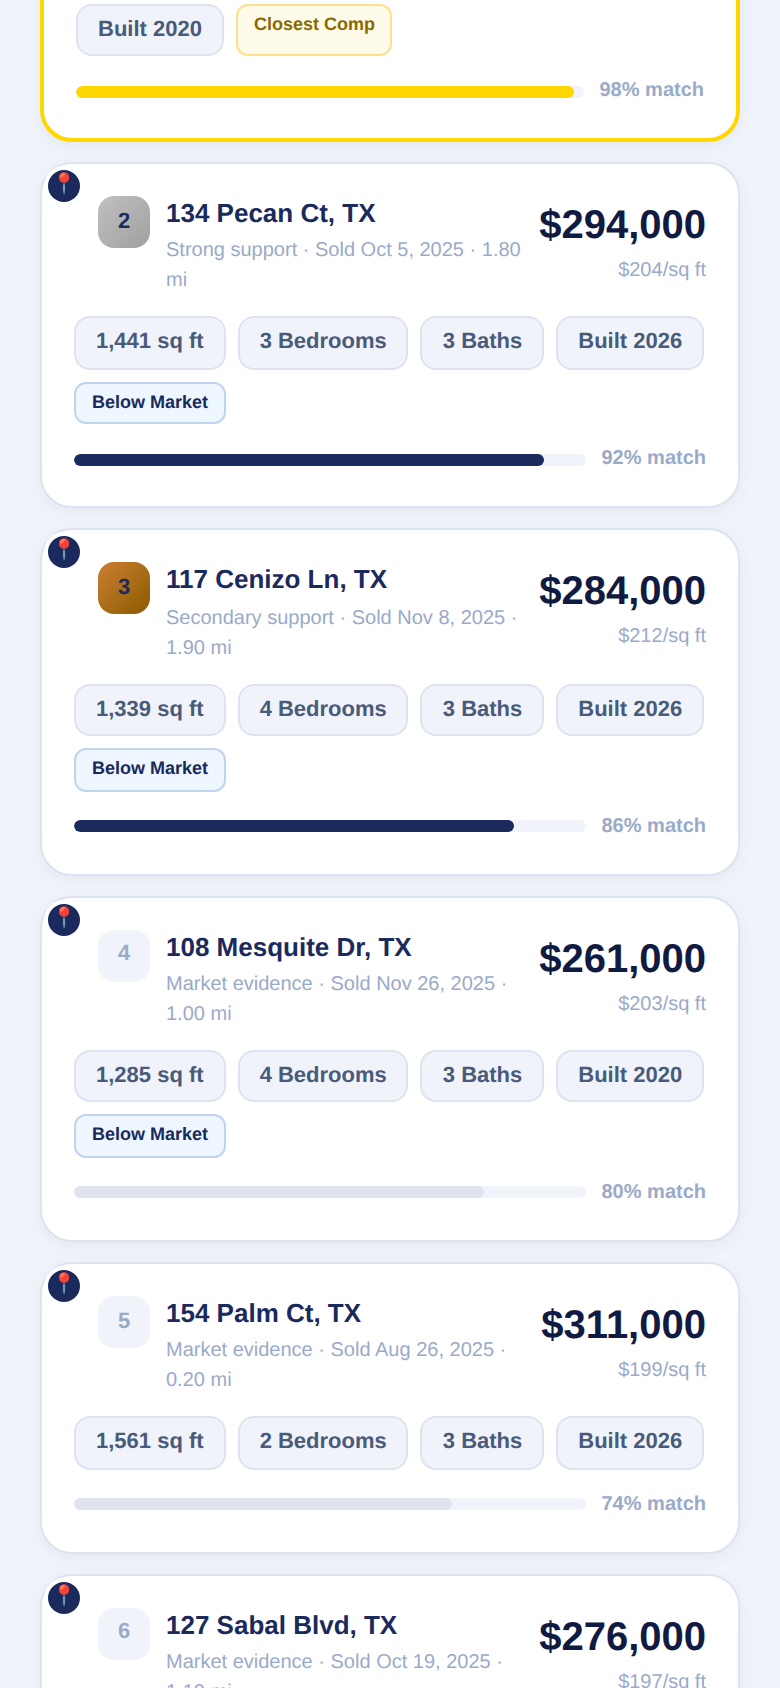
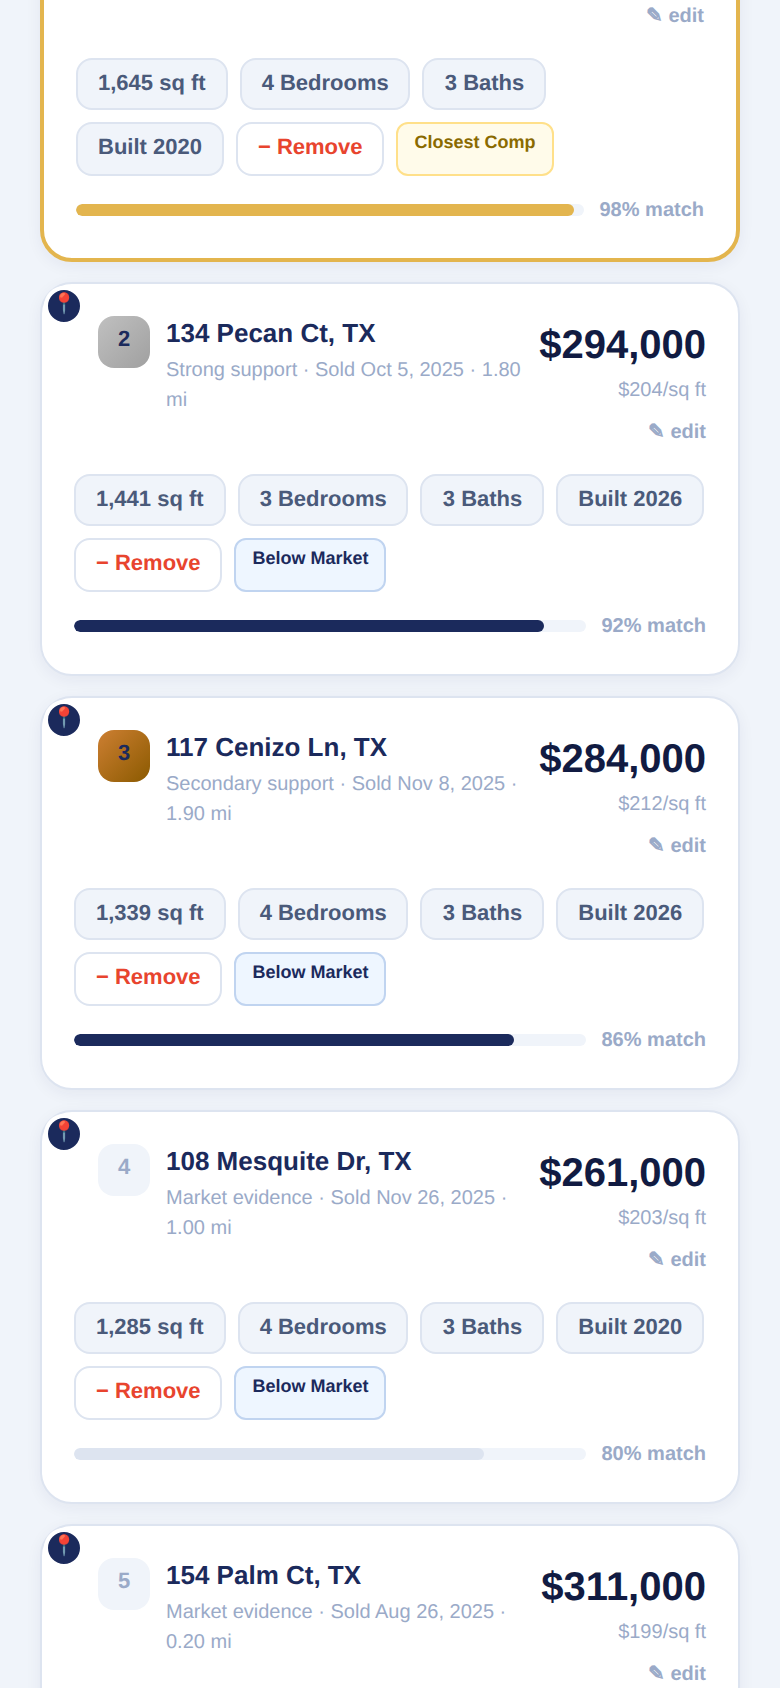
Unify the app's gold accents into the brand brass family
The app spoke two accent colors: the brand brass (#C9973A/#D7B665 —
logo, headers, labels) and a pure taxi-yellow #FFD700 on highlights
(closest-comp border, rank badge, match bar, gold button outlines,
report/net-sheet card frames, new-views dot). Side by side the pure
yellow read as a discount sticker against the premium brass.

One gold now: the goldLine token moves to #E3B54E, the #1 rank badge
gradient to the brass ramp (#E6BF6A → #C9973A), and the new-views dot
matches. Everything that inherited the token follows automatically.
No layout, text, or data changes; grep confirms no #FFD700 remains
anywhere in the codebase.

Landing marketing images regenerated from the live app so the sales
page matches. Full test suite green.

Claude-Session: https://claude.ai/code/session_01BewmELVPKz9oy1fBSz4REM

diff --git a/tradetechpro/src/TradeTechPro.jsx b/tradetechpro/src/TradeTechPro.jsx
@@ -935,7 +935,7 @@ export default function TradeTechPro() {
               <span className="text-xs font-extrabold" style={{ color: on ? C.orange : C.slate, letterSpacing: 0.5 }}>{`0${i + 1}`}</span>
               <span className="text-[11px] font-bold uppercase truncate" style={{ color: on ? "#fff" : C.slate, letterSpacing: 0.5 }}>{label}</span>
               {s === "workspace" && totalViews > seenViews && (
-                <span className="absolute" style={{ top: 5, right: "24%", width: 9, height: 9, borderRadius: 5, background: "#FFD700", boxShadow: `0 0 0 2px ${on ? C.navy : "#fff"}` }} />
+                <span className="absolute" style={{ top: 5, right: "24%", width: 9, height: 9, borderRadius: 5, background: "#E3B54E", boxShadow: `0 0 0 2px ${on ? C.navy : "#fff"}` }} />
               )}
             </button>
           );
@@ -950,7 +950,7 @@ export default function TradeTechPro() {
     navy: "#1B2A5C", navyDeep: "#111B42",
     cardGrad: "linear-gradient(135deg,#162655,#223B72)",
     headGrad: "linear-gradient(135deg,#07162D 0%,#111B42 62%,#1D2F5A 100%)",
-    gold: "#D7B665", goldHi: "#E6BF6A", goldLine: "#FFD700",
+    gold: "#D7B665", goldHi: "#E6BF6A", goldLine: "#E3B54E",
     bg: "#F0F4FA", line: "#dde4f0", line2: "#D9E1EF",
     muted: "#9aaac8", muted2: "#6b7db3", body: "#4a5a7a",
     green: "#1E9E5A", red: "#E8442E",
@@ -1283,7 +1283,7 @@ export default function TradeTechPro() {
             const ppsf = c.ppsf || (c.soldPrice && c.sqft ? Math.round(c.soldPrice / c.sqft) : null);
             const out = !!c.excludedAsOutlier;
             const manualOut = !!excludedComps[c.address];
-            const rankBg = i === 0 ? "linear-gradient(135deg,#FFD700,#FFA500)" : i === 1 ? "linear-gradient(135deg,#C0C0C0,#A0A0A0)" : i === 2 ? "linear-gradient(135deg,#CD7F32,#8B5A00)" : QC.bg;
+            const rankBg = i === 0 ? "linear-gradient(135deg,#E6BF6A,#C9973A)" : i === 1 ? "linear-gradient(135deg,#C0C0C0,#A0A0A0)" : i === 2 ? "linear-gradient(135deg,#CD7F32,#8B5A00)" : QC.bg;
             const rankTxt = i <= 2 ? QC.navy : QC.muted;
             const barColor = i === 0 ? QC.goldLine : i <= 2 ? QC.navy : QC.line;
             const belowMkt = c.soldPrice && c.soldPrice < R.value * 0.95;